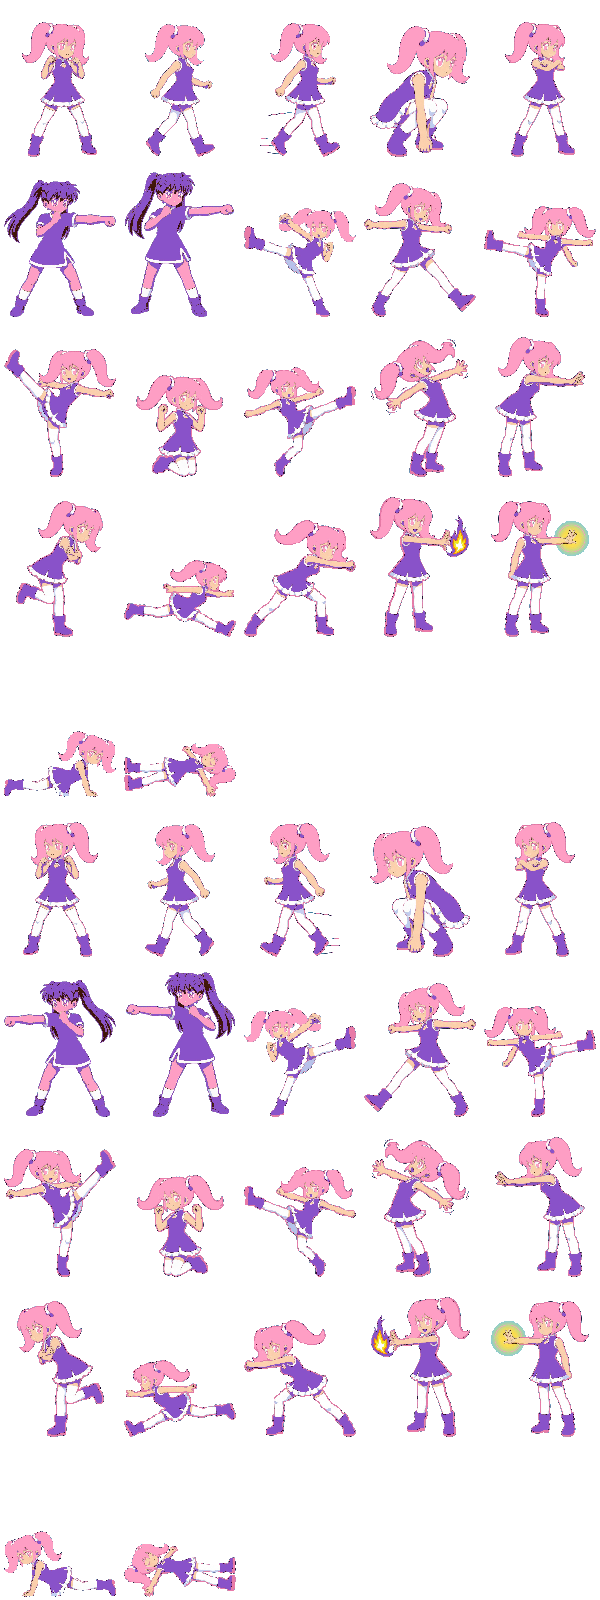
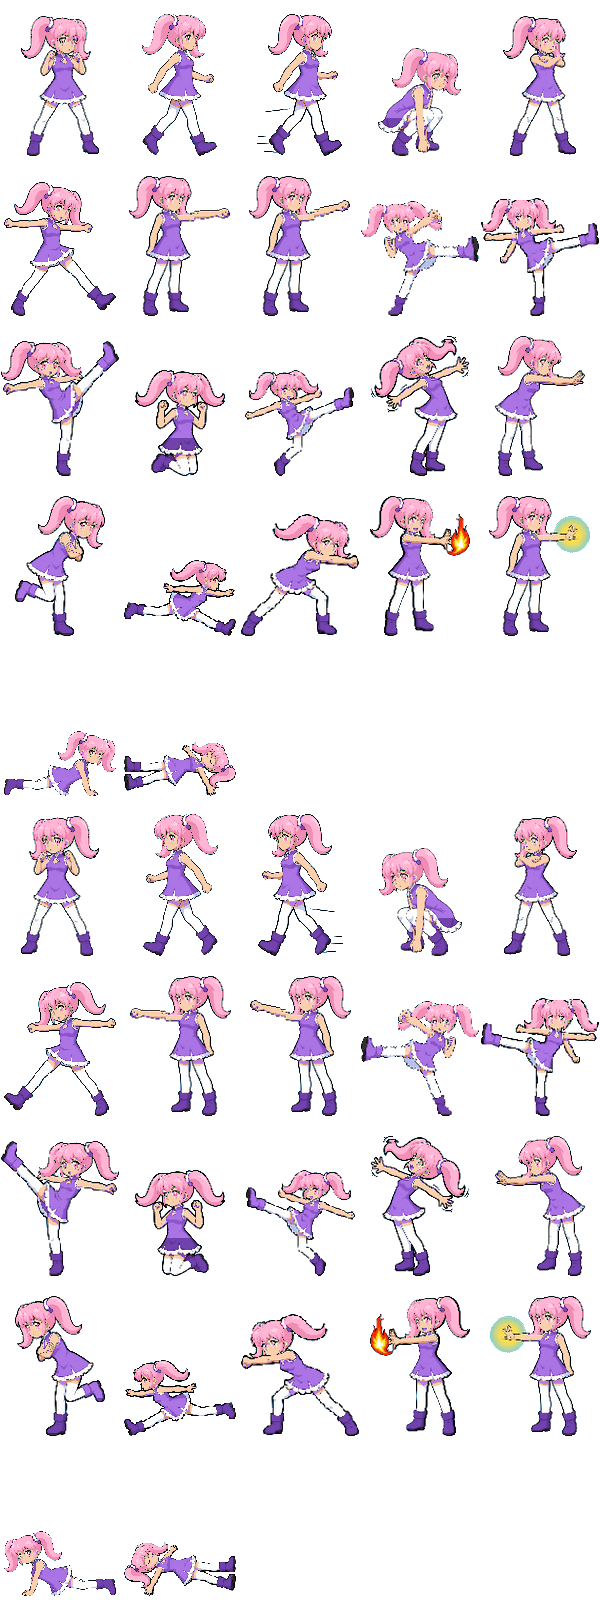
Rework manga skins and add 3D XIII contour silhouette

diff --git a/src/front/tps.rs b/src/front/tps.rs
@@ -123,6 +123,8 @@ const HEAD: i32 = 12;
 const LIMB_Z: i32 = 5;
 /// Parts thinner than this on screen are drawn without their outline (it would be all ink).
 const INKED_RADIUS: i32 = 4;
+/// How far past its volumes a manga fighter's bold contour reaches, in screen pixels.
+pub const CONTOUR: i32 = 2 * GRAIN;
 
 /// Cosines of the twelve directions of a disc, in twelfths of a turn, as [`Fx`] values.
 const COS: [i32; 12] = [
@@ -415,23 +417,6 @@ pub fn ball_shape(frame: &mut Frame, centre: Px, radius: i32, color: Rgba) {
     ball_shape_styled(frame, centre, radius, color, Shading::Retro);
 }
 
-#[allow(dead_code)]
-fn ball_shape_entry(frame: &mut Frame, centre: Px, radius: i32, color: Rgba) {
-    let r = radius as i64;
-    let outline = disc(centre, r);
-    fill_polygon(frame, &outline, color.scaled(SHADE));
-    let lit = (
-        centre.0 + div_round(LIGHT.0 * r, 20) as i32,
-        centre.1 + div_round(LIGHT.1 * r, 20) as i32,
-    );
-    fill_polygon(frame, &disc(lit, r * 7 / 10), color);
-    if radius >= INKED_RADIUS {
-        for (i, &p) in outline.iter().enumerate() {
-            ink_line(frame, p, outline[(i + 1) % outline.len()], INK);
-        }
-    }
-}
-
 /// A tube on screen, from `a` (radius `ra`) to `b` (radius `rb`): a capsule, lit, with a shade
 /// band along its dark side, and the outline.
 /// [`tube_shape`], shaded the style's way: the manga's cel draws a second, bolder outline.
@@ -460,20 +445,9 @@ pub fn tube_shape(frame: &mut Frame, a: Px, ra: i32, b: Px, rb: i32, color: Rgba
         return;
     }
     let one = Fx::ONE.0 as i64;
-    // The axis and its normal, unit vectors in fixed point.
     let (ux, uy) = (dx * one / length, dy * one / length);
     let (nx, ny) = (-uy, ux);
-    let around = |p: Px, r: i32, k: usize| -> Px {
-        let (c, s) = (cos(k), sin(k));
-        (
-            p.0 + div_round((ux * c + nx * s) * r as i64, one * one) as i32,
-            p.1 + div_round((uy * c + ny * s) * r as i64, one * one) as i32,
-        )
-    };
-    // The cap around `a` bulges away from `b` (a quarter turn to three quarters), then the
-    // cap around `b`.
-    let mut capsule: Vec<Px> = (0..=6).map(|k| around(a, ra, 3 + k)).collect();
-    capsule.extend((0..=6).map(|k| around(b, rb, 9 + k)));
+    let capsule = capsule(a, ra, b, rb, (ux, uy));
     fill_polygon(frame, &capsule, color);
 
     // The shade: the capsule past a line parallel to the axis, on the side away from the light.
@@ -506,6 +480,48 @@ pub fn tube_shape(frame: &mut Frame, a: Px, ra: i32, b: Px, rb: i32, color: Rgba
             ink_line(frame, p, capsule[(i + 1) % capsule.len()], INK);
         }
     }
+}
+
+/// The outline of the capsule from `a` (radius `ra`) to `b` (radius `rb`), `unit` being the
+/// axis from `a` to `b` as a unit vector in fixed point: the cap around `a` bulges away from
+/// `b` (a quarter turn to three quarters), then the cap around `b`.
+fn capsule(a: Px, ra: i32, b: Px, rb: i32, unit: (i64, i64)) -> Vec<Px> {
+    let one = Fx::ONE.0 as i64;
+    let (ux, uy) = unit;
+    let (nx, ny) = (-uy, ux);
+    let around = |p: Px, r: i32, k: usize| -> Px {
+        let (c, s) = (cos(k), sin(k));
+        (
+            p.0 + div_round((ux * c + nx * s) * r as i64, one * one) as i32,
+            p.1 + div_round((uy * c + ny * s) * r as i64, one * one) as i32,
+        )
+    };
+    let mut outline: Vec<Px> = (0..=6).map(|k| around(a, ra, 3 + k)).collect();
+    outline.extend((0..=6).map(|k| around(b, rb, 9 + k)));
+    outline
+}
+
+/// The bold ink contour behind a manga volume on screen: the tube from `a` (radius `ra`) to
+/// `b` (radius `rb`), or the ball when they meet, grown by [`CONTOUR`] pixels and filled
+/// flat with [`INK`]. Drawn behind every volume of a fighter, the contours merge into one
+/// thick line around the whole silhouette, while the volumes keep their thin inner lines:
+/// the comic book look of XIII.
+pub fn contour_shape(frame: &mut Frame, a: Px, ra: i32, b: Px, rb: i32) {
+    let (dx, dy) = ((b.0 - a.0) as i64, (b.1 - a.1) as i64);
+    let length = (dx * dx + dy * dy).isqrt();
+    let outline = if length == 0 {
+        disc(a, (ra.max(rb) + CONTOUR) as i64)
+    } else {
+        let one = Fx::ONE.0 as i64;
+        capsule(
+            a,
+            ra + CONTOUR,
+            b,
+            rb + CONTOUR,
+            (dx * one / length, dy * one / length),
+        )
+    };
+    fill_polygon(frame, &outline, INK);
 }
 
 // ---------------------------------------------------------------------------------------------
@@ -608,30 +624,6 @@ pub fn draw_tube_styled(
     );
 }
 
-#[allow(dead_code)]
-fn draw_tube_unused(
-    frame: &mut Frame,
-    camera: &Camera,
-    a: Vec3,
-    b: Vec3,
-    radius: i32,
-    color: Rgba,
-) {
-    let (ca, cb) = (camera.to_camera(a), camera.to_camera(b));
-    if ca.z < NEAR || cb.z < NEAR {
-        return;
-    }
-    let r = Fx::int(radius);
-    tube_shape(
-        frame,
-        screen_point(ca),
-        perspective(r, ca.z).max(1),
-        screen_point(cb),
-        perspective(r, cb.z).max(1),
-        color,
-    );
-}
-
 /// Draws a ball of the world, skipped when too close to the eye.
 pub fn draw_ball(frame: &mut Frame, camera: &Camera, centre: Vec3, radius: i32, color: Rgba) {
     draw_ball_styled(frame, camera, centre, radius, color, Shading::Retro);
@@ -656,20 +648,6 @@ pub fn draw_ball_styled(
         perspective(Fx::int(radius), c.z).max(1),
         color,
         shading,
-    );
-}
-
-#[allow(dead_code)]
-fn draw_ball_unused(frame: &mut Frame, camera: &Camera, centre: Vec3, radius: i32, color: Rgba) {
-    let c = camera.to_camera(centre);
-    if c.z < NEAR {
-        return;
-    }
-    ball_shape(
-        frame,
-        screen_point(c),
-        perspective(Fx::int(radius), c.z).max(1),
-        color,
     );
 }
 
@@ -738,7 +716,7 @@ pub fn draw(frame: &mut Frame, client: &Client, camera: &Camera, fight_ticks: u3
                 )
             } else {
                 let figure = Figure::of(fighter, rules_of(current, fighter), fight_ticks);
-                mannequin(&figure, &skin, depth(fighter, config), camera)
+                mannequin(&figure, depth(fighter, config), camera)
             }
         })
         .chain(
@@ -786,6 +764,7 @@ pub fn draw(frame: &mut Frame, client: &Client, camera: &Camera, fight_ticks: u3
                     Shading::Cel,
                 ),
             },
+            Shape::Contour { a, b, radius } => draw_contour(frame, camera, a, b, radius),
         }
     }
 
@@ -1009,6 +988,8 @@ enum Shape {
         radius: i32,
         color: Rgba,
     },
+    /// The bold ink behind a cel part (see [`contour_shape`]).
+    Contour { a: Vec3, b: Vec3, radius: i32 },
 }
 
 struct Sculpt<'a> {
@@ -1058,6 +1039,23 @@ impl Sculpt<'_> {
     }
 }
 
+/// Draws the bold contour of a manga volume of the world (see [`contour_shape`]), skipped
+/// when an end is too close to the eye.
+pub fn draw_contour(frame: &mut Frame, camera: &Camera, a: Vec3, b: Vec3, radius: i32) {
+    let (ca, cb) = (camera.to_camera(a), camera.to_camera(b));
+    if ca.z < NEAR || cb.z < NEAR {
+        return;
+    }
+    let r = Fx::int(radius);
+    contour_shape(
+        frame,
+        screen_point(ca),
+        perspective(r, ca.z).max(1),
+        screen_point(cb),
+        perspective(r, cb.z).max(1),
+    );
+}
+
 /// A fireball in the 3D view: a ball of fire at chest height on its line, and a smaller,
 /// paler one trailing behind it.
 fn fireball(shot: &Projectile, config: &MatchConfig, camera: &Camera) -> Vec<Part> {
@@ -1100,39 +1098,19 @@ fn head_axes(figure: &Figure) -> (Point, Point) {
 
 /// The wooden mannequin of `figure`: a tube per bone, a ball per joint, the head a sphere, the
 /// accessory and the marks in relief, standing on the line `depth`.
-fn mannequin(figure: &Figure, skin: &crate::game::Skin, depth: i32, camera: &Camera) -> Vec<Part> {
+fn mannequin(figure: &Figure, depth: i32, camera: &Camera) -> Vec<Part> {
     let lift = |point: Point, z: i32| self::lift(point, depth + z);
     let mut s = Sculpt {
         camera,
         parts: Vec::new(),
     };
-    // A skinned fighter wears its palette in 3D too: the outfit for the volumes, the hair
-    // for the head, the skin for the hands and the feet.
-    let palette = super::skin::palette_of(skin);
-    let base = if skin.style.is_skinned() {
-        palette.outfit
-    } else if figure.ink == stick::INK {
+    let base = if figure.ink == stick::INK {
         WOOD
     } else {
         figure.ink
     };
     s.tube(lift(figure.neck, 0), lift(figure.hip, 0), TORSO, base);
-    // The head wears the palette's skin, with its hair as a second ball on top.
-    let skinned = skin.style.is_skinned();
-    s.ball(
-        lift(figure.head, 0),
-        HEAD,
-        if skinned { palette.skin } else { base },
-    );
-    if skinned {
-        let (up, _) = head_axes(figure);
-        let along = HEAD as f32 / 3.0;
-        let hair = Point {
-            x: figure.head.x + up.x * along,
-            y: figure.head.y + up.y * along,
-        };
-        s.ball(lift(hair, 0), HEAD * 3 / 4, palette.hair);
-    }
+    s.ball(lift(figure.head, 0), HEAD, base);
     s.ball(lift(figure.shoulder, 0), SHOULDER, base);
     s.ball(lift(figure.hip, 0), SHOULDER, base);
     let limbs = [
@@ -1147,9 +1125,7 @@ fn mannequin(figure: &Figure, skin: &crate::game::Skin, depth: i32, camera: &Cam
             s.tube(lift(from, z), lift(bone.joint, z), radius, color);
             s.ball(lift(bone.joint, z), JOINT, color);
             s.tube(lift(bone.joint, z), lift(bone.end, z), radius, color);
-            // The hands and the feet of a skinned fighter are bare skin.
-            let end_color = if skinned { palette.skin } else { color };
-            s.ball(lift(bone.end, z), end, end_color);
+            s.ball(lift(bone.end, z), end, color);
         }
     }
 
@@ -1256,8 +1232,8 @@ fn mannequin(figure: &Figure, skin: &crate::game::Skin, depth: i32, camera: &Cam
 }
 
 /// The manga fighter in 3D: the manga engine's own volumes, built into parts at the
-/// fighter's depth. Cel-shaded tubes and balls with bold outlines — its own look, not the
-/// stick mannequin's.
+/// fighter's depth. Cel-shaded tubes and balls inside one bold ink contour (see
+/// [`contour_shape`]) — its own look, not the stick mannequin's.
 fn manga_volumes(
     fighter: &Fighter,
     config: &MatchConfig,
@@ -1272,12 +1248,25 @@ fn manga_volumes(
         camera,
         parts: Vec::new(),
     };
-    for volume in volumes {
+    for volume in &volumes {
         let (a, ra) = volume.a;
         match volume.b {
             Some((b, rb)) => s.cel(lift(a), Some(lift(b)), ra.max(rb), volume.color),
             None => s.cel(lift(a), None, ra, volume.color),
         }
+    }
+    let behind = Fx(s.parts.iter().map(|part| part.depth.0).max().unwrap_or(0) + 1);
+    for volume in &volumes {
+        let (a, ra) = volume.a;
+        let (b, rb) = volume.b.unwrap_or(volume.a);
+        s.parts.push(Part {
+            depth: behind,
+            shape: Shape::Contour {
+                a: lift(a),
+                b: lift(b),
+                radius: ra.max(rb),
+            },
+        });
     }
     s.parts
 }

diff --git a/tests/tps.rs b/tests/tps.rs
@@ -7,9 +7,10 @@ use srr::front::arena::{self, ARENA_LEFT, FLOOR_Y, feet};
 use srr::front::space::{Camera, Fx, NEAR, Vec3};
 use srr::front::stick::Point;
 use srr::front::tps::{
-    self, AHEAD, BACK, BACKGROUND, CAMERA_LAG, GRAIN, HEIGHT, INK, SIDE, TARGET_HEIGHT, ball_shape,
-    clip_half_plane, clip_near, clip_segment, draw_ball, draw_line, draw_polygon, draw_tube,
-    fill_polygon, fog, ink_line, lift, overview, tone, tube_shape,
+    self, AHEAD, BACK, BACKGROUND, CAMERA_LAG, CONTOUR, GRAIN, HEIGHT, INK, SIDE, TARGET_HEIGHT,
+    ball_shape, clip_half_plane, clip_near, clip_segment, contour_shape, draw_ball, draw_contour,
+    draw_line, draw_polygon, draw_tube, fill_polygon, fog, ink_line, lift, overview, tone,
+    tube_shape,
 };
 use srr::front::{
     Frame, Game, Headless, PAUSE_KEY, Rect, Rgba, SCREEN_HEIGHT, SCREEN_WIDTH, Screen, VIEW_KEY,
@@ -478,6 +479,82 @@ fn world_tubes_and_balls_shrink_with_the_distance_and_vanish_near_the_eye() {
         WHITE,
     );
     assert!(f.rects.is_empty(), "one end too close");
+}
+
+/// The smallest box holding every rectangle of `frame`: left, top, right, bottom.
+fn extent(frame: &Frame) -> (f32, f32, f32, f32) {
+    frame.rects.iter().fold(
+        (f32::MAX, f32::MAX, f32::MIN, f32::MIN),
+        |(l, t, r, b), rect| {
+            (
+                l.min(rect.x),
+                t.min(rect.y),
+                r.max(rect.x + rect.width),
+                b.max(rect.y + rect.height),
+            )
+        },
+    )
+}
+
+#[test]
+fn a_contour_is_the_volume_grown_and_filled_with_ink() {
+    // A ball's contour: a disc of ink, CONTOUR pixels wider all around than the ball.
+    let mut ball = frame();
+    ball_shape(&mut ball, (100, 100), 20, WHITE);
+    let mut ink = frame();
+    contour_shape(&mut ink, (100, 100), 20, (100, 100), 20);
+    assert!(!ink.rects.is_empty());
+    assert!(ink.rects.iter().all(|r| r.color == INK), "nothing but ink");
+    let (bl, bt, br, bb) = extent(&ball);
+    let (il, it, ir, ib) = extent(&ink);
+    let grown = CONTOUR as f32;
+    assert!(il <= bl - grown + 1.0 && ir >= br + grown - 1.0, "wider");
+    assert!(it <= bt - grown + 1.0 && ib >= bb + grown - 1.0, "taller");
+    check_rects(&ink.rects);
+
+    // A tube's: the capsule, grown the same way past both ends and both sides.
+    let mut tube = frame();
+    tube_shape(&mut tube, (50, 100), 10, (200, 100), 6, WHITE);
+    let mut ink = frame();
+    contour_shape(&mut ink, (50, 100), 10, (200, 100), 6);
+    assert!(ink.rects.iter().all(|r| r.color == INK));
+    let (tl, tt, tr, tb) = extent(&tube);
+    let (il, it, ir, ib) = extent(&ink);
+    assert!(il < tl && ir > tr && it < tt && ib > tb, "all around");
+    check_rects(&ink.rects);
+}
+
+#[test]
+fn a_world_contour_shrinks_with_the_distance_and_vanishes_near_the_eye() {
+    let camera = straight();
+    let mut near = frame();
+    draw_contour(
+        &mut near,
+        &camera,
+        Vec3::int(0, 0, 100),
+        Vec3::int(0, 40, 100),
+        10,
+    );
+    let mut far = frame();
+    draw_contour(
+        &mut far,
+        &camera,
+        Vec3::int(0, 0, 400),
+        Vec3::int(0, 40, 400),
+        10,
+    );
+    assert!(count(&near, INK) > count(&far, INK));
+    assert!(count(&far, INK) > 0);
+    check_rects(&near.rects);
+
+    for (a, b) in [
+        (Vec3::int(0, 0, 10), Vec3::int(0, 0, 100)),
+        (Vec3::int(0, 0, 100), Vec3::int(0, 0, 10)),
+    ] {
+        let mut f = frame();
+        draw_contour(&mut f, &camera, a, b, 10);
+        assert!(f.rects.is_empty(), "one end too close");
+    }
 }
 
 #[test]
